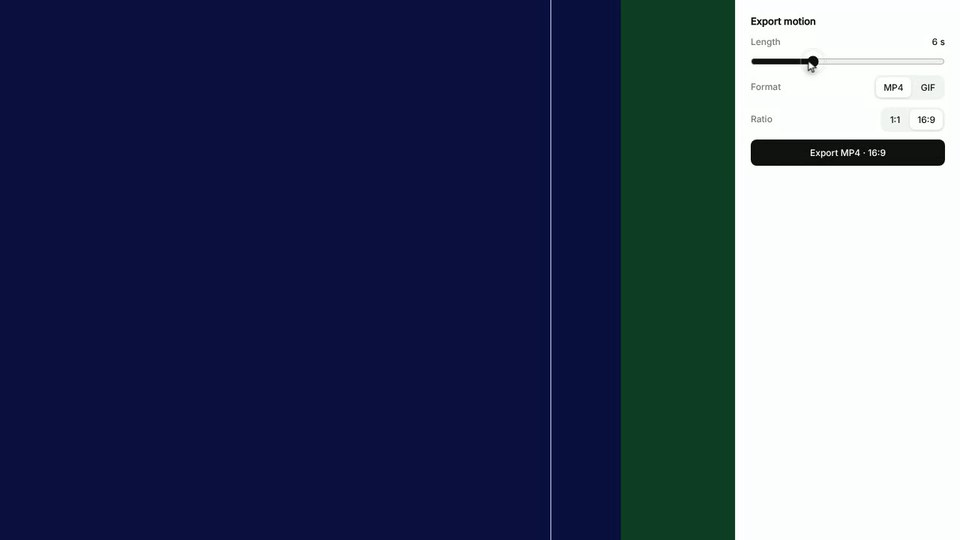
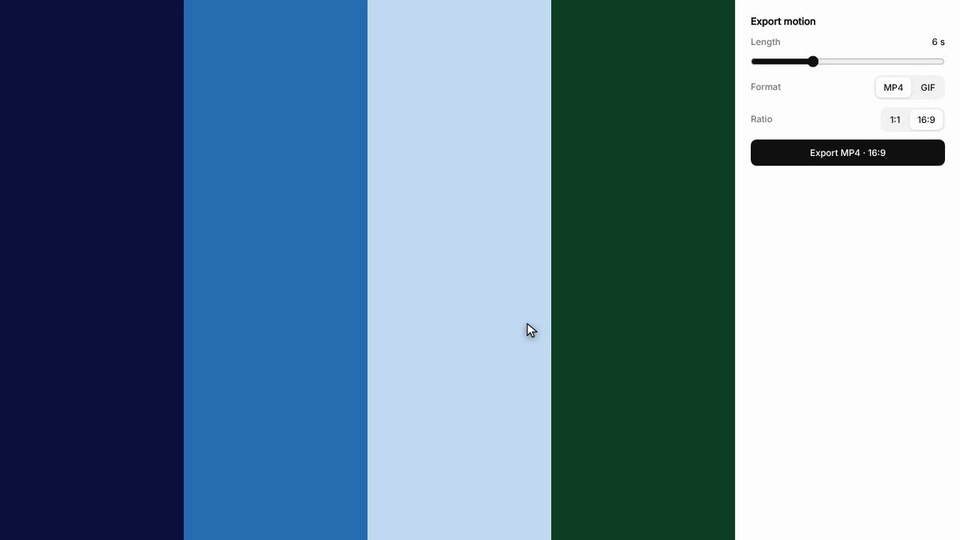
Brand colors thumbnail starts on the four full-width colour bands

diff --git a/index.html b/index.html
@@ -155,7 +155,7 @@
         </article>
         <article class="card">
           <a href="motion-character/" aria-label="Brand Colors">
-            <div class="card-media"><img src="motion-character/thumbnail.jpg?v=15" data-still="motion-character/thumbnail.jpg?v=15" data-preview="clips/motion-character.webp?v=13" alt="" loading="lazy"></div>
+            <div class="card-media"><img src="motion-character/thumbnail.jpg?v=16" data-still="motion-character/thumbnail.jpg?v=16" data-preview="clips/motion-character.webp?v=13" alt="" loading="lazy"></div>
             <div class="card-meta">
               <h3 class="card-title">Brand Colors</h3>
               <p class="card-sub">Motion Component</p><svg class="card-arrow" width="10" height="10" viewBox="0 0 10 10" aria-hidden="true"><path d="M2.3 7.7l5.1-5.1M2.3 2.1h5.5v5.5" fill="none" stroke="currentColor"/></svg>
